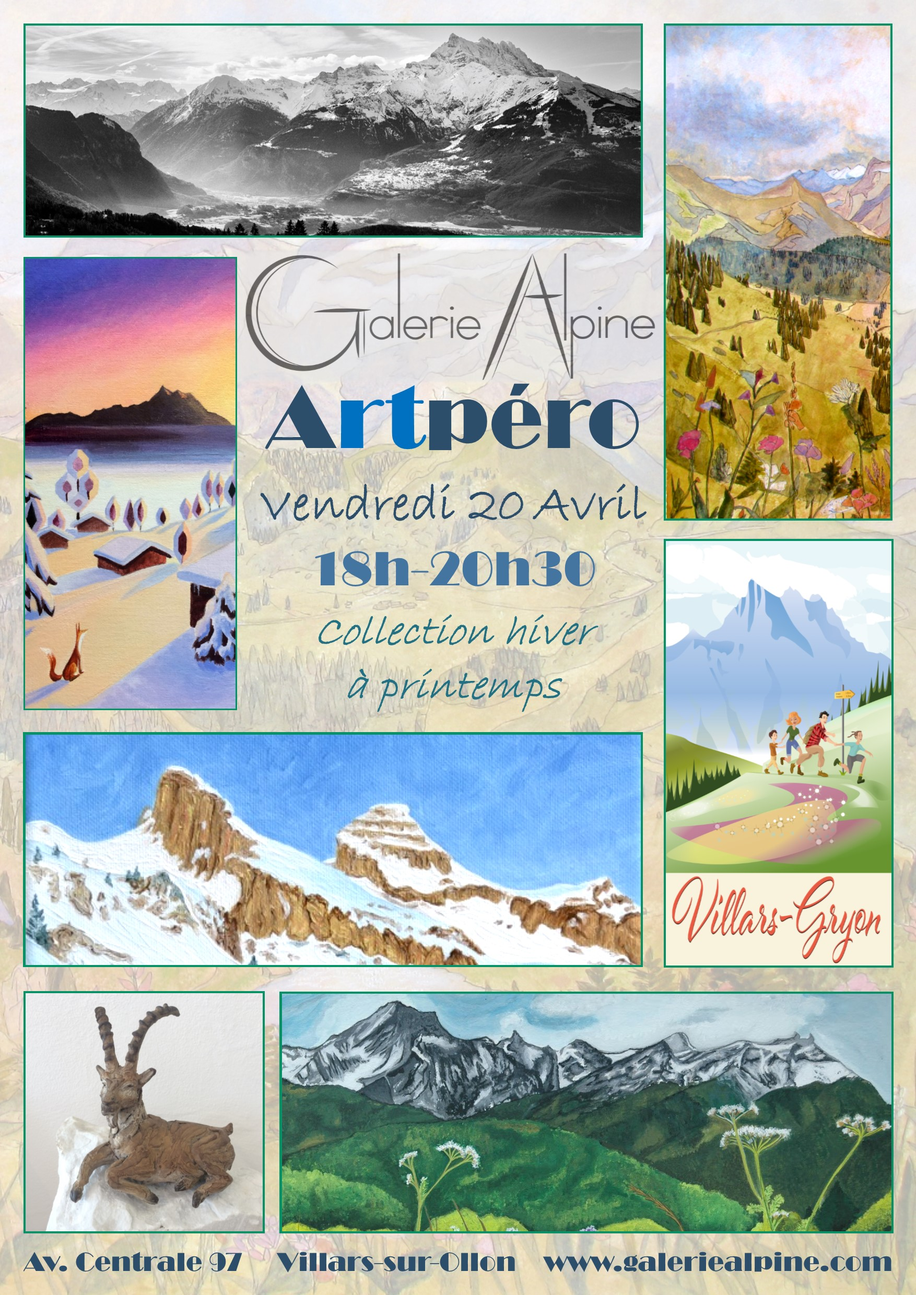
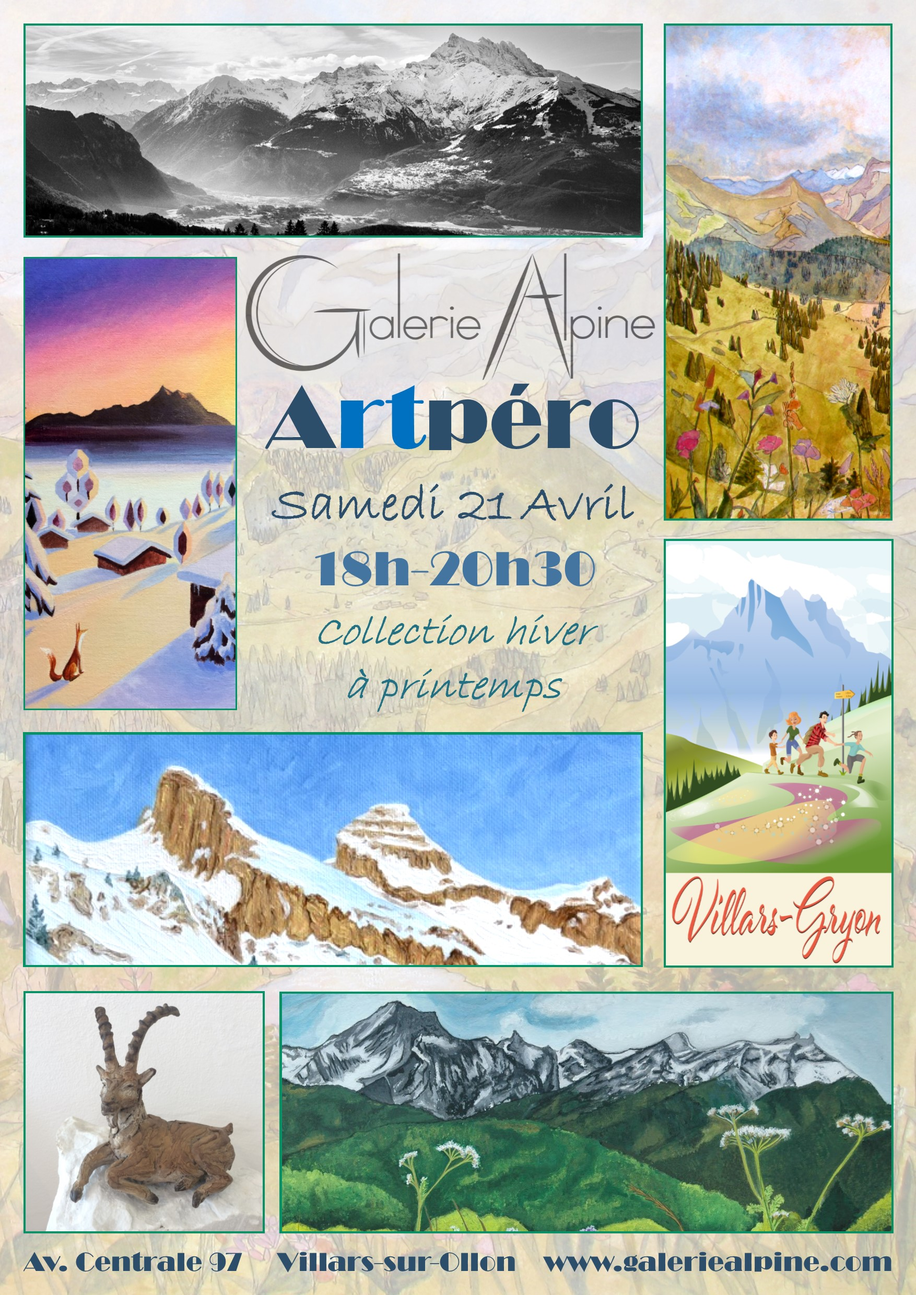
update next Artpéro date and flyer

Changed region(s): [[0.2771, 0.1242, 0.9852, 0.4036]]

diff --git a/index.html b/index.html
@@ -9,7 +9,7 @@ layout: main
 	<div class="six columns">
 		<u><h5>Prochaine Artpéro / Next Artpéro</h5></u>
 
-		20 avril : 18h-20h30<br />
+		21 avril : 18h-20h30<br />
 		<br />
 
 		<a href="/img/artpero_avr18.jpg">
